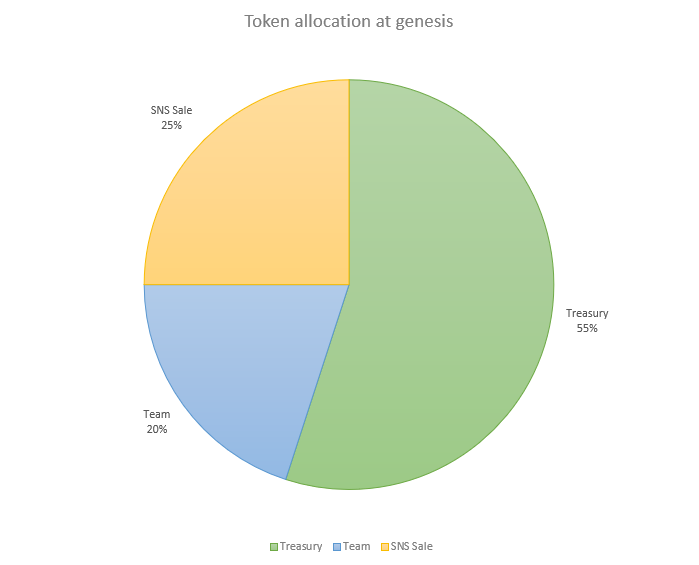
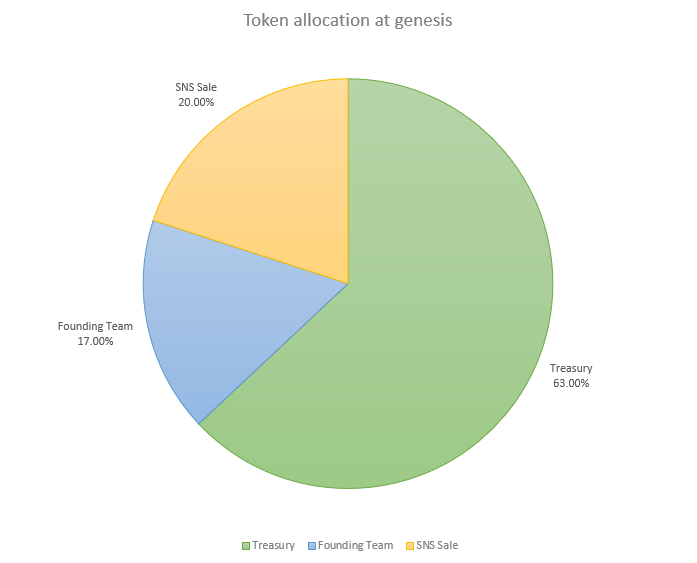
fix: data

diff --git a/whitepaper/tokenomics/allocation.md b/whitepaper/tokenomics/allocation.md
@@ -1,5 +1,5 @@
 ---
-sidebar_position: 3
+sidebar_position: 4
 ---
 
 # Allocation
@@ -11,21 +11,21 @@ When the SNS DAO is successfully launched, the allocation of the total supply of
 ![match renevue distribution](./img/token-allocation.png)
 
 ### SNS Sale
-**25%** of the supply, or **25,000,000** (twenty five million) tokens, will be made available for sale, to raise funds and decentralize the platform governance.  
+**20%** of the supply, or **20,000,000** (twenty million) tokens, will be made available for sale, to raise funds and decentralize the platform governance.  
 
 To be part of the SNS decentralization swap, the participants must deposit ICP into the SNS to receive NAT tokens in proportion to the ICP deposited, depending on the quantity of ICP raised in total at the final.  
 
 The tokens will be divided into 7 neurons of equal value, with dissolve delays of 0, 3, 6, 9, 12, 15 and 18 months.
 
 ### Founding Team
-**20%** of the supply, or **20,000,000** (twenty million) tokens, will be allocated to the founding team.  
+**17%** of the supply, or **17,000,000** (seventeen million hundred thousands) tokens, will be allocated to the founding team.  
 
 The team will receive a basket of 16 neurons, each with equal values. These tokens will be released over a period of **4 years**, in equal portions at intervals of 3 months. Each neuron will have a dissolve delay of 1 month.
 
 This structure ensures the team's long-term interest in the success of the project and guarantees their commitment to the platform.
 
 ### Treasury
-**55%** of the supply, or **55,000,000** (fifth and five million) tokens, will be allocated to the DAO's treasury.  
+**63%** of the supply, or **63,900,000** (sixth and three million) tokens, will be allocated to the DAO's treasury.  
 
 The treasury, under complete control of the DAO, serves as a strategic reserve to be utilized for approved purposes such as partnerships, grants to NFT creators and game developers, prizes in future championships, community airdrops, token burning, and so on.
 

diff --git a/whitepaper/tokenomics/inflation.md b/whitepaper/tokenomics/inflation.md
@@ -1,0 +1,27 @@
+---
+sidebar_position: 8
+---
+
+# Inflation
+
+As specified in the configuration page, considering an initial reward of 4% and a final reward of 2% after 8 years, with an initial burning rate of 0.5% and a final burning rate of 2% after 10 years, the supply over time will evolve as follows:
+
+![supply over time](./img/supply-over-time.png)
+
+| Year | Reward rate | Minted (NAT) | Burn rate | Burned (NAT) | Total supply (NAT) |
+|:----:|:-----------:|-------------:|-----------|-------------:|-------------------:|
+|   0  |    4.00%    |  4,000,000  |   0.50%   |   -500,000  |    100,000,000    |
+|   1  |    3.53%    |  3,654,844  |   0.57%   |   -594,451  |    103,500,000    |
+|   2  |    3.13%    |  3,330,012  |   0.66%   |   -703,036  |    106,560,392    |
+|   3  |    2.78%    |  3,036,774  |   0.76%   |   -827,486  |    109,187,368    |
+|   4  |    2.50%    |  2,784,916  |   0.87%   |   -969,764  |    111,396,656    |
+|   5  |    2.28%    |  2,582,644  |   1.00%   |  -1,132,118 |    113,211,809    |
+|   6  |    2.13%    |  2,436,575  |   1.15%   |  -1,317,124 |    114,662,335    |
+|   7  |    2.03%    |  2,351,818  |   1.32%   |  -1,527,750 |    115,781,785    |
+|   8  |    2.00%    |  2,332,117  |   1.52%   |  -1,767,414 |    116,605,853    |
+|   9  |    2.00%    |  2,343,411  |   1.74%   |  -2,040,058 |    117,170,556    |
+|  10  |    2.00%    |  2,349,478  |   2.00%   |  -2,349,478 |    117,473,909    |
+|  11  |    2.00%    |  2,349,478  |   2.00%   |  -2,349,478 |    117,473,909    |
+|  12  |    2.00%    |  2,349,478  |   2.00%   |  -2,349,478 |    117,473,909    |
+
+Note: The presented burn rate is a theoretical value. Tokens can be burned by proposals and are also burned when every match is finished (read the Token section). The popularity of the platform directly influences the amount of $NAT that will be burned.

diff --git a/whitepaper/tokenomics/config.md b/whitepaper/tokenomics/config.md
@@ -1,19 +1,18 @@
 ---
-sidebar_position: 5
+sidebar_position: 3
+title: Configuration
 ---
 
-# Sale
-
-## Configuration
+# SNS swap configuration
 
 The initial configuration parameters of the SNS decentralization sale/swap will be configured as follows. 
 
 | Description | Value |
 | ----------- | ----: |
 | Supply at genesis (NAT) | 100,000,000 |
-| Tokens for sale (NAT) | 25,000,000 |
-| Founding team balance (NAT) | 20,000,000 |
-| Treasury balance (NAT) | 55,000,000 |
+| Tokens for sale (NAT) | 20,000,000 |
+| Founding team balance (NAT) | 17,000,000 |
+| Treasury balance (NAT) | 63,000,000 |
 | Initial reward rate | 4% |
 | Final reward rate | 2% |
 | Transition duration | 8 years |
@@ -25,25 +24,12 @@ The initial configuration parameters of the SNS decentralization sale/swap will 
 | Maximal individual participation (ICP) | 100,000 |
 | Minimum participants | 100 |
 | Minimum dissolve delay | 6 months |
-| Maximum dissolve delay | 2 years |
-| Dissolve delay bonus | 200% |
+| Maximum dissolve delay | 4 years |
+| Dissolve delay bonus | 110% |
 | Minimal neuron stake (NAT) | 10 |
-| Maximum neuron age | 4 years |
+| Maximum neuron age | 8 years |
 | Age bonus | 200% |
 | Sale duration | 14 days |
 | Neuron fund participation | true |
 
-These parameters can be modified at any time before the proposal to create the DAO is submitted to the NNS.
-
-## Valuation and price
-
-With 25% of the total supply for sale, the valuation (market cap) and price of each NAT token will be:
-
-| Raised (ICP) | Valuation (ICP) | Price (ICP) |
-| -----------: | --------------: | ----------: |
-| 100,000 | 400,000 | 0,004
-| 500,000 | 2,000,000 | 0,02
-
-Note: The community fund participation was not taken into account as it fluctuates daily.
-
-## 
+These parameters can be modified at any time before the proposal to create the SNS swap is submitted to the NNS.

diff --git a/whitepaper/tokenomics/governance.md b/whitepaper/tokenomics/governance.md
@@ -1,5 +1,5 @@
 ---
-sidebar_position: 5
+sidebar_position: 6
 ---
 
 # Governance
@@ -12,14 +12,19 @@ The dissolve delay is the minimum time period over which a neuron owner locks up
 
 ## Voting power
 
+With the parameters defined at the configuration page, the voting power at genesis will be divided between the sale participants and the founding team (assuming 100% of participation) as follows:
 
+![voting power at TGE](./img/voting-power-tge.png)
+
+In conclusion, as illustrated in the chart above, the team will possess less voting power than the other participants: 49.29% vs 50.71%.
 
 ## First proposals
 
 After the decentralization swap is finished, the team will submit proposals to the Neural Arena DAO that include:
 
 - Transfer ICP and NAT to DEXes to enable trading of the tokens and add liquidity.
-- Transfer ICP to cover the expenses budget for operations, compensation, and team expansion.
-- Transfer ICP to cover the creation of a Swiss foundation .
+- Request ICP to cover the expenses budget for operations, compensation, and team expansion, after submitting a detailed proposal.
+- Establish of a Neural Arena DAO Association in Switzerland to provide us an official recognition, protect our community and team, empowering the platform to operate with confidence, credibility, and a robust legal framework.
+- Contract an auditing firm to do a complete code review.
 - Motions to list NAT in crypto price data sites, such as CoinMarkCap and Coingecko.
 

diff --git a/whitepaper/tokenomics/dao.md b/whitepaper/tokenomics/dao.md
@@ -15,9 +15,3 @@ To become one of the top applications in the IC ecosystem, we believe that an ap
 ### Team growth
 
 The developer team dedicated considerable effort to research, design, and implement a platform that is, thanks to the IC features, pretty unique in the crypto environment. They funded themselves during this time without grants or funds from investors. To further advance the platform, complete the roadmap, and establish a recognized brand, the team must be expanded, which requires capital.
-
-## Conclusion
-
-Since the beginning of the development, when we had no idea if our plans would work, we always believed that the first and unique source of funds should come from a DAO launch. This ensures that tokens are not unfairly distributed to unknown investors or parties whose contributions to the project are unclear. 
-
-Together with the founding team, at TGE, the only owners of the platform will be the SNS swap participants and nobody else!

diff --git a/whitepaper/conclusion.md b/whitepaper/conclusion.md
@@ -1,0 +1,11 @@
+---
+sidebar_position: 98
+---
+
+# Conclusion
+
+Since the beginning of the development, when we had no idea if our plans would work, we always believed that the first and unique source of funds should come from a DAO launch. This ensures that tokens are not unfairly distributed to unknown investors or parties whose contributions to the project are unclear. 
+
+Together with the founding team, at TGE, the only owners of the platform will be the SNS swap participants and nobody else!
+
+Reiterating what we stated earlier: there's no hype, no false partnerships, no empty promises, no future plans of impossible to do AI on-chain, no web3 "magic" app that could work much better in web2.

diff --git a/whitepaper/tokenomics/treasury.md b/whitepaper/tokenomics/treasury.md
@@ -1,10 +1,10 @@
 ---
-sidebar_position: 4
+sidebar_position: 5
 ---
 
 # Treasury
 
-When the SNS decentralization sale finish, the DAO will be in control of a treasury composed by ICP (the proceeeds from the sale) and $NAT tokens (the 55% of the total supply).
+When the SNS decentralization sale finish, the DAO will be in control of a treasury composed by ICP (the proceeeds from the sale) and $NAT tokens (the 63% of the total supply).
 
 The treasury, stored in both the ICP ledger account and the $NAT ledger account of the DAO, will be allocated through proposals that must be approved by DAO members.
 

diff --git a/whitepaper/tokenomics/valuation.md b/whitepaper/tokenomics/valuation.md
@@ -1,0 +1,15 @@
+---
+sidebar_position: 7
+title: Valuation
+---
+
+# Valuation and price range
+
+With 20% of the total supply for sale, the valuation (market cap) and price of each NAT token will be:
+
+| Raised (ICP) | Valuation (ICP) | Price (ICP) |
+| -----------: | --------------: | ----------: |
+| 100,000 | 400,000 | 0,005
+| 500,000 | 2,000,000 | 0,025
+
+Note: The Neuro Fund (NF) participation was not taken into account as it fluctuates daily.

diff --git a/whitepaper/tokenomics/risks.md b/whitepaper/tokenomics/risks.md
@@ -1,8 +1,11 @@
 ---
-sidebar_position: 6
+sidebar_position: 9
 ---
 
 # Risks
 
 ## Hostile takeover
 
+With the parameters defined on the configuration page, even if the attacker were to buy 100% of the non-NF tokens and stake them for the maximum period, the founding team and the NF swap would still have the majority of votes. This would make it impossible for a hostile takeover of the DAO to occur.
+
+![attacker 100%](./img/attacker-100p.png)
